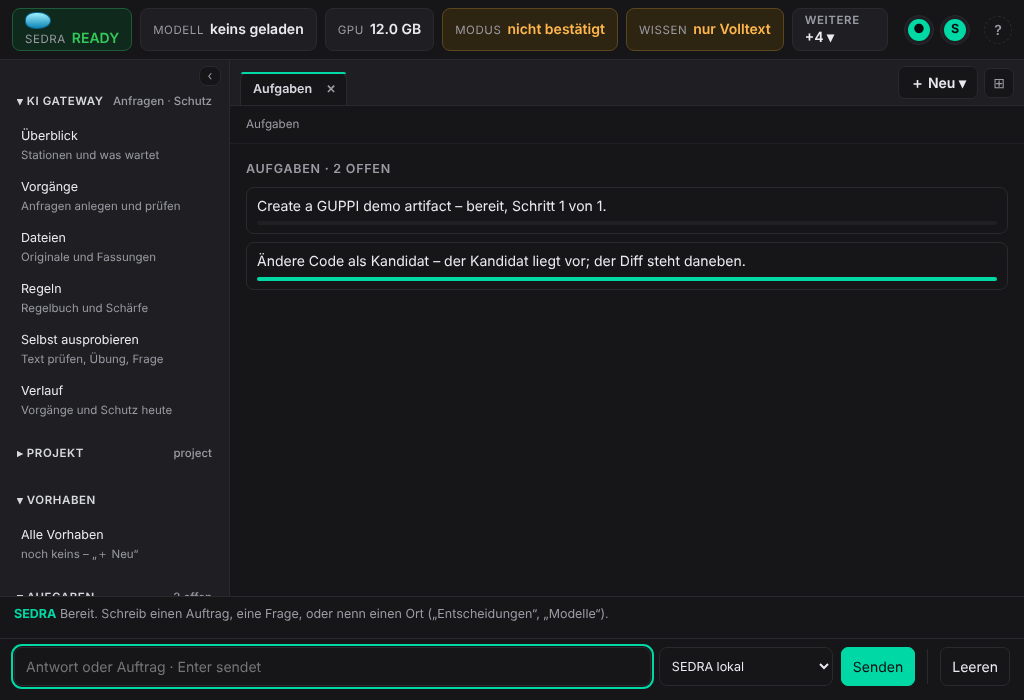
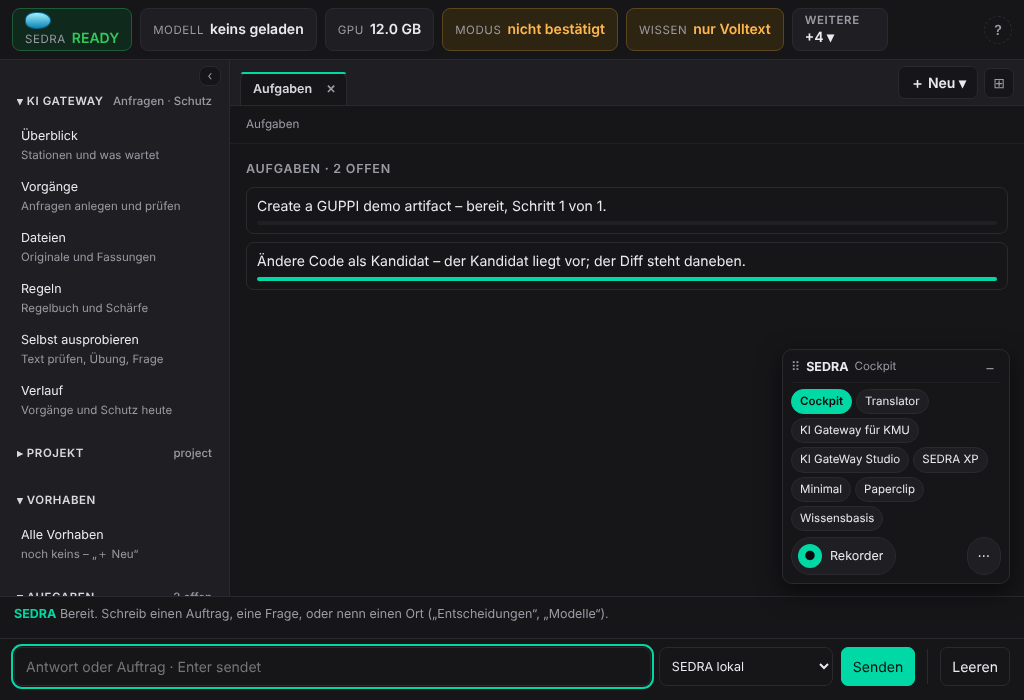
UIX: Mini-Hub – Rekorder und Umschalter als eigenes schwebendes Fenster
Captain 27.10.2026, 11:02 (ersetzt S6-E1): in jeder Shell ein ziehbares
Fenster mit allen Oberflächen als Knöpfe (ein Klick wechselt), Rekorder und
„⋯“ (Übersicht, Darstellung, Schrift, Gedächtnis). Zusammenklappbar zu „S“
mit Aufnahme-Punkt; Lage und Zustand im Browser gemerkt (sedra.hub). Panels
öffnen zur freien Seite und sind nie höher als der Platz. Die Plätze in den
Leisten (inLeiste) sind wieder entfernt. Tests, Spec, Changelog, Logbuch.

Claude-Session: https://claude.ai/code/session_01APvDSMTnUMNo2XdTsnSMnG

diff --git a/runtime/src/guppi_runtime/uix/ui/wechsel.js b/runtime/src/guppi_runtime/uix/ui/wechsel.js
@@ -1,4 +1,4 @@
-// UI contract 1.0 – der Umschalter (Ticket B6-G-04, Klaus 15.10.2026): in **jeder** Shell derselbe kleine Knopf unten rechts.
+// UI contract 1.0 – der Umschalter (Ticket B6-G-04, Klaus 15.10.2026), seit 27.10.2026 im Mini-Hub: ein schwebendes Fenster in **jeder** Shell.
 // Er öffnet ein Menü mit der Übersicht der Oberflächen, dem Wechsel in eine andere, der Darstellung (Klar/Nacht) und der
 // Schriftgröße (Normal/Groß). Er gehört zur Seite, nicht zur Shell: der Loader hängt ihn nach dem Start der Shell an, eine Shell
 // kann ihn nicht abschalten, und er spricht über sedraApi.api (die Seite selbst, Token-geprüft) – nur zwei Routen:
@@ -61,6 +61,7 @@
     chip.append(el('span', 'sx-chip-mark', 'S'), el('span', 'sx-chip-text', manifest.shell.name || manifest.shell.id));
 
     const panel = el('div', 'sx-panel sx-umschalter-panel'); panel.setAttribute('role', 'menu'); panel.hidden = true;
+    chip.panelRef = panel;
     const head = el('div', 'sx-head'); head.append(el('b', null, 'SEDRA'), el('small', null, 'Oberfläche: ' + (manifest.shell.name || manifest.shell.id)));
     const list = el('div', 'sx-list');
     const look = el('div', 'sx-look');
@@ -134,27 +135,87 @@
     document.addEventListener('click', e=>{ if(!panel.hidden && !panel.contains(e.target) && e.target !== chip && !chip.contains(e.target)) close(); });
 
     const rek = mountRekorder();
-    const host = el('div', 'sx-host'); host.append(rek.panel, rek.chip, panel, chip);
-    platzieren(host);
-    return {chip, panel, open, close, fill};
+    const hub = miniHub(el, manifest, chip, rek, api);
+    return {chip, panel, open, close, fill, hub};
   }
 
-  // Stufe 6 (SPEC_UIX_STUFE6 §2.3, S6-E1): Rekorder und Umschalter schweben nicht mehr über dem Inhalt. Eine Shell mit Leiste oder
-  // Kopfleiste nennt mit `inLeiste(el)` den Platz; die Panels öffnen dann darunter. Ohne Platz bleiben sie schwebend, aber klein.
-  let leistenPlatz = null, sxHost = null;
-  function platzieren(host){
-    sxHost = host || sxHost;
-    if(!sxHost) return;
-    if(leistenPlatz && leistenPlatz.isConnected){
-      sxHost.classList.add('sx-in-leiste'); sxHost.classList.remove('sx-klein');
-      if(sxHost.parentElement !== leistenPlatz) leistenPlatz.append(sxHost);
-    }else{
-      sxHost.classList.remove('sx-in-leiste'); sxHost.classList.add('sx-klein');
-      if(sxHost.parentElement !== document.body) document.body.append(sxHost);
-    }
-    try{ root.dispatchEvent(new Event('sedra:leiste')); }catch(_e){}      // die Leiste misst neu (ui/leiste.js)
+  // Mini-Hub (Captain 27.10.2026, 11:02 – ersetzt S6-E1): Rekorder und Umschalter sind ein eigenes, schwebendes Fenster in jeder
+  // Shell. Es zeigt die Oberflächen als Knöpfe (ein Klick wechselt), den Rekorder und „⋯“ für Übersicht, Darstellung und Gedächtnis.
+  // Der Captain zieht es an der Titelzeile, wohin er will, und klappt es zu einem runden „S“ zusammen; Lage und Zustand merkt sich
+  // der Browser (`sedra.hub`, nur Anzeige-Komfort). Die Panels öffnen zur freien Seite hin.
+  const HUB_KEY = 'sedra.hub';
+  // rein: die gemerkte Lage auf das Fenster begrenzt; kaputt oder fremd → null (dann unten rechts)
+  function hubLage(roh, breite, hoehe, w, h){
+    let v = null;
+    try{ v = JSON.parse(roh); }catch(_e){ return null; }
+    if(!v || typeof v !== 'object' || Array.isArray(v)) return null;
+    if(typeof v.x !== 'number' || typeof v.y !== 'number' || !isFinite(v.x) || !isFinite(v.y)) return {x: null, y: null, klein: v.klein === true};
+    return {x: Math.max(4, Math.min(v.x, breite - (w || 60) - 4)), y: Math.max(4, Math.min(v.y, hoehe - (h || 40) - 4)), klein: v.klein === true};
   }
-  function inLeiste(el){ leistenPlatz = el || null; platzieren(); }
+  function miniHub(el, manifest, chip, rek, api){
+    const host = el('div', 'sx-host sx-hub');
+    host.setAttribute('role', 'region'); host.setAttribute('aria-label', 'SEDRA Mini-Hub – Oberflächen und Rekorder');
+    const fenster = el('div', 'sx-hub-fenster');
+    const kopf = el('div', 'sx-hub-kopf'); kopf.title = 'Ziehen verschiebt das Fenster · Doppelklick: zurück nach unten rechts';
+    const zu = el('button', 'sx-hub-zu', '–'); zu.type = 'button'; zu.title = 'Zusammenklappen'; zu.setAttribute('aria-label', 'Mini-Hub zusammenklappen');
+    kopf.append(el('span', 'sx-hub-griff', '⠿'), el('b', null, 'SEDRA'), el('small', null, manifest.shell.name || manifest.shell.id), zu);
+    const shells = el('div', 'sx-hub-shells'); shells.setAttribute('role', 'group'); shells.setAttribute('aria-label', 'Oberfläche wechseln');
+    const leiste = el('div', 'sx-hub-leiste');
+    chip.querySelector('.sx-chip-text').textContent = '⋯';
+    chip.title = 'Übersicht, Darstellung, Schrift, Gedächtnis (Alt+S)';
+    leiste.append(rek.chip, chip);
+    fenster.append(kopf, shells, leiste);
+    const klein = el('button', 'sx-hub-klein'); klein.type = 'button'; klein.title = 'SEDRA Mini-Hub öffnen'; klein.setAttribute('aria-label', 'SEDRA Mini-Hub öffnen');
+    klein.append(el('span', 'sx-chip-mark', 'S'), el('span', 'sx-hub-rec'));
+    host.append(rek.panel, chip.panelRef || document.querySelector('.sx-umschalter-panel') || el('span'), fenster, klein);
+    document.body.append(host);
+
+    // die Oberflächen als Knöpfe: die aktuelle markiert, die Übersicht (start) steht im Menü „⋯“
+    api('/api/uix/modules').then(m=>{
+      (m.shells || []).filter(s=>s.id !== 'start').forEach(s=>{
+        const b = el('button', 'sx-hub-shell' + (s.id === manifest.shell.id ? ' on' : ''), s.name || s.id); b.type = 'button';
+        b.title = s.id === manifest.shell.id ? 'Du bist hier' : 'Wechseln zu ' + (s.name || s.id) + (s.description ? ' – ' + s.description : '');
+        if(s.id === manifest.shell.id) b.setAttribute('aria-current', 'true');
+        else b.addEventListener('click', ()=>wechseln({shell: s.id}).catch(err=>{ if(root.sedraBoot && root.sedraBoot.note) root.sedraBoot.note('Mini-Hub', err); }));
+        shells.append(b);
+      });
+    }).catch(()=>{ shells.append(el('small', 'sx-note', 'Oberflächen nicht lesbar')); });
+
+    // Lage, Zustand, Ziehen
+    let lage = null;
+    try{ lage = hubLage(localStorage.getItem(HUB_KEY), root.innerWidth, root.innerHeight, 220, 120); }catch(_e){}
+    const merken = ()=>{ try{ localStorage.setItem(HUB_KEY, JSON.stringify({x: lage ? lage.x : null, y: lage ? lage.y : null, klein: host.classList.contains('klein')})); }catch(_e){} };
+    function setzen(){
+      if(lage && lage.x !== null){ host.style.left = lage.x + 'px'; host.style.top = lage.y + 'px'; host.style.right = 'auto'; host.style.bottom = 'auto'; }
+      else{ host.style.left = host.style.top = ''; host.style.right = ''; host.style.bottom = ''; }
+      const r = (host.classList.contains('klein') ? klein : fenster).getBoundingClientRect();
+      const oben = r.top > root.innerHeight / 2;
+      host.classList.toggle('sx-oben-frei', oben);                              // Panels öffnen zur freien Seite hin
+      host.classList.toggle('sx-links-frei', r.left > root.innerWidth / 2);
+      // ein Panel ist nie höher als der Platz auf seiner Seite – sonst läge sein Anfang außerhalb des Fensters
+      host.style.setProperty('--sx-platz', Math.max(160, Math.round(oben ? r.top - 16 : root.innerHeight - r.bottom - 16)) + 'px');
+    }
+    function klappen(k){ host.classList.toggle('klein', !!k); merken(); setzen(); }
+    if(lage && lage.klein) host.classList.add('klein');
+    setzen();
+    zu.addEventListener('click', ()=>klappen(true));
+    klein.addEventListener('click', ()=>klappen(false));
+    kopf.addEventListener('dblclick', ()=>{ lage = null; merken(); setzen(); });
+    kopf.addEventListener('pointerdown', e=>{
+      if(e.target === zu) return;
+      e.preventDefault();
+      const r = host.getBoundingClientRect(), dx = e.clientX - r.left, dy = e.clientY - r.top;
+      const zieh = ev=>{ lage = {x: Math.max(4, Math.min(ev.clientX - dx, root.innerWidth - r.width - 4)), y: Math.max(4, Math.min(ev.clientY - dy, root.innerHeight - r.height - 4))}; setzen(); };
+      const los = ()=>{ document.removeEventListener('pointermove', zieh); document.removeEventListener('pointerup', los); merken(); };
+      document.addEventListener('pointermove', zieh); document.addEventListener('pointerup', los);
+    });
+    root.addEventListener('resize', ()=>{ if(lage && lage.x !== null){ const r = host.getBoundingClientRect(); lage = {x: Math.max(4, Math.min(lage.x, root.innerWidth - r.width - 4)), y: Math.max(4, Math.min(lage.y, root.innerHeight - r.height - 4))}; } setzen(); });
+    [rek.panel, chip.panelRef].forEach(pn=>{ if(pn && typeof MutationObserver !== 'undefined') new MutationObserver(()=>{ if(!pn.hidden) setzen(); }).observe(pn, {attributes: true, attributeFilter: ['hidden']}); });
+    // Aufnahme läuft: auch zusammengeklappt sichtbar (roter Punkt am „S“)
+    const rekMark = rek.chip.querySelector('.sx-chip-mark');
+    if(rekMark && typeof MutationObserver !== 'undefined') new MutationObserver(()=>host.classList.toggle('nimmt-auf', rekMark.classList.contains('rec'))).observe(rekMark, {attributes: true, attributeFilter: ['class']});
+    return {host, klappen, setzen};
+  }
 
   // Die Seite des Menüs: links (Standard) oder rechts. Die Wahl steht am Baum und im Umschalter; sie gilt pro Browser
   // (localStorage, nur eine Bequemlichkeit – ein Fehler dort ändert nichts am Ablauf).
@@ -274,6 +335,6 @@
   // „Wissens-Shell öffnen“ (SPEC_COCKPIT_BAUM_v1 §3.1): eine Shell wechselt in eine andere; Arbeitsstand und Ablage gehen mit
   function zurShell(id){ return wechseln({shell: String(id || '')}); }
 
-  root.sedraWechsel = {zurShell, inLeiste, mount, entries, setScale, restoreScale, scales: SCALES, menuWahl, menuSeite, setMenuSeite, MENU_SEITEN, beimWechsel, vorDemWechsel, neuLaden};
+  root.sedraWechsel = {zurShell, hubLage, mount, entries, setScale, restoreScale, scales: SCALES, menuWahl, menuSeite, setMenuSeite, MENU_SEITEN, beimWechsel, vorDemWechsel, neuLaden};
   if(typeof module !== 'undefined' && module.exports) module.exports = {entries, scales: SCALES};
 })();

diff --git a/runtime/src/guppi_runtime/uix/ui/wechsel.css b/runtime/src/guppi_runtime/uix/ui/wechsel.css
@@ -44,14 +44,30 @@
 .sx-rekorder-panel .sx-seg-btn.stopp{color:var(--bad)}
 .sx-rek-empfzeile{display:flex;align-items:center;gap:10px}
 .sx-rek-empf{flex:1;accent-color:var(--accent)}
-/* Stufe 6 (S6-E1): in der Leiste – nebeneinander, die Panels öffnen darunter; ohne Leiste schwebend, aber klein (nur das Zeichen) */
-.sx-host.sx-in-leiste{position:static;flex-direction:row;align-items:center;gap:6px;flex:0 0 auto;z-index:auto}
-.sx-host.sx-in-leiste .sx-chip{box-shadow:none;padding:3px 10px 3px 3px;background:var(--panel-2)}
-.sx-host.sx-in-leiste .sx-chip-mark{width:22px;height:22px}
-.sx-host.sx-in-leiste .sx-chip-text{max-width:110px}
-.sx-host.sx-in-leiste .sx-panel{position:fixed;top:calc(var(--strip-h) + 6px);right:14px;z-index:9100}
-.sx-host.sx-klein .sx-chip{padding:4px}
-.sx-host.sx-klein .sx-chip-text{display:none}
-.sx-host.sx-klein .sx-chip:hover .sx-chip-text,.sx-host.sx-klein .sx-chip:focus-visible .sx-chip-text{display:inline}
-@media (max-width:1200px){ .sx-host.sx-in-leiste .sx-chip-text{display:none} .sx-host.sx-in-leiste .sx-chip{padding:3px} }
-.sx-host .sx-chip.laeuft .sx-chip-text{display:inline !important}
+/* Mini-Hub (Captain 27.10.2026, 11:02): ein eigenes, schwebendes Fenster – Oberflächen wechseln, Rekorder, „⋯“; ziehbar, zusammenklappbar */
+.sx-hub-fenster{display:flex;flex-direction:column;gap:6px;width:228px;padding:6px 8px 8px;background:var(--panel);border:1px solid var(--line);
+  border-radius:var(--radius-2);box-shadow:var(--shadow)}
+.sx-hub-kopf{display:flex;align-items:center;gap:6px;cursor:grab;user-select:none;touch-action:none;padding:0 0 4px;border-bottom:1px solid var(--line-soft)}
+.sx-hub-kopf:active{cursor:grabbing}
+.sx-hub-kopf b{font-size:var(--size-small)}
+.sx-hub-kopf small{flex:1;min-width:0;color:var(--muted);font-size:var(--size-xs);white-space:nowrap;overflow:hidden;text-overflow:ellipsis}
+.sx-hub-griff{color:var(--muted);font-size:var(--size-small);line-height:1}
+.sx-hub-zu{width:22px;height:22px;padding:0;border:1px solid transparent;border-radius:var(--radius);background:transparent;color:var(--muted);cursor:pointer}
+.sx-hub-zu:hover,.sx-hub-zu:focus-visible{border-color:var(--line);color:var(--text)}
+.sx-hub-shells{display:flex;flex-wrap:wrap;gap:4px}
+.sx-hub-shell{padding:3px 8px;border:1px solid var(--line);border-radius:999px;background:var(--panel-2);color:var(--text);cursor:pointer;font-size:var(--size-xs)}
+.sx-hub-shell:hover,.sx-hub-shell:focus-visible{border-color:var(--accent)}
+.sx-hub-shell.on{background:var(--accent);border-color:var(--accent);color:var(--accent-text);cursor:default;font-weight:600}
+.sx-hub-leiste{display:flex;gap:6px;justify-content:space-between}
+.sx-hub-leiste .sx-chip{box-shadow:none;background:var(--panel-2)}
+.sx-hub-leiste .sx-umschalter{padding:6px 10px}
+.sx-hub-leiste .sx-umschalter .sx-chip-mark{display:none}
+.sx-hub-klein{display:none;position:relative;padding:4px;border:1px solid var(--line);border-radius:50%;background:var(--panel);box-shadow:var(--shadow);cursor:pointer}
+.sx-hub-rec{display:none;position:absolute;right:0;top:0;width:10px;height:10px;border-radius:50%;background:var(--bad);border:2px solid var(--panel)}
+.sx-hub.klein .sx-hub-fenster{display:none}
+.sx-hub.klein .sx-hub-klein{display:block}
+.sx-hub.nimmt-auf .sx-hub-rec{display:block}
+/* Panels öffnen zur freien Seite: unten, wenn oben kein Platz ist; rechts bündig oder links */
+.sx-hub:not(.sx-oben-frei){flex-direction:column-reverse}
+.sx-hub:not(.sx-links-frei){align-items:flex-start}
+.sx-hub .sx-panel{max-height:var(--sx-platz, calc(100vh - 110px))}

diff --git a/runtime/src/guppi_runtime/uix/shells/cockpit/strip.js b/runtime/src/guppi_runtime/uix/shells/cockpit/strip.js
@@ -26,10 +26,7 @@
       const hilfe = d().el('button', 'ck-hilfe', '?'); hilfe.type = 'button';
       hilfe.title = 'Tastenkürzel (?)'; hilfe.setAttribute('aria-label', 'Tastenkürzel anzeigen');
       hilfe.onclick = ()=>{ if(shell.rahmen) shell.rahmen.kuerzel(); };
-      // Stufe 6 (S6-E1): Rekorder und Umschalter stehen rechts in der Leiste, nicht schwebend über dem Werkstück
-      const platz = d().el('div', 'ck-sx-platz');
-      host.append(platz, hilfe);
-      if(root.sedraWechsel && root.sedraWechsel.inLeiste) root.sedraWechsel.inLeiste(platz);
+      host.append(hilfe);
       // Stufe 6 (§2.1): passt nicht alles hinein, wandern ruhige Zellen in „+n ▾“ – nichts wird mehr abgeschnitten
       leiste = root.sedraLeiste ? root.sedraLeiste.makeLeiste(host, ()=>cells.map(c=>({el: c.cell, id: c.manifest.id, order: c.manifest.order})), 'ck-gauge') : null;
     }

diff --git a/runtime/src/guppi_runtime/uix/ui/frame.js b/runtime/src/guppi_runtime/uix/ui/frame.js
@@ -154,8 +154,6 @@
         if(L.gespraech.art === 'schublade') right.append(d().button('Gespräch', ()=>this.toggleDrawer(), 'fr-drawer-btn'));
         right.append(d().el('small', 'fr-hint', L.suche === 'strg-k' ? 'Strg+K · Enter sendet · Esc schließt' : 'Enter im Gespräch sendet'));
         zone.append(right);
-        this.el.leisteRechts = right;                  // Stufe 6 (§2.3): hier stehen Rekorder und Umschalter
-        if(!L.rand('leiste') && root.sedraWechsel && root.sedraWechsel.inLeiste) root.sedraWechsel.inLeiste(right);
         // Stufe 6 (§2.1): ruhige Zellen wandern in „+n ▾“, statt abgeschnitten zu werden
         this.leiste = root.sedraLeiste ? root.sedraLeiste.makeLeiste(zone, ()=>this.gauges.map(g=>({el: g.cell, id: g.manifest.id, order: g.manifest.order})), 'fr-gauge') : null;
       },

diff --git a/runtime/src/guppi_runtime/uix/shells/minimal/menubar.js b/runtime/src/guppi_runtime/uix/shells/minimal/menubar.js
@@ -179,9 +179,7 @@
         const state = root.sedraLifecycle.mountTool(mod, cell, shell.ctx.makeContext(manifest, null, shell.shellApi), shell.onProblem);
         cells.push({manifest, mod, state, cell});
       });
-      // Stufe 6: Rekorder und Umschalter rechts in der Menüleiste; ruhige Instrumente wandern in „+n ▾“ (ui/leiste.js)
-      const platz = d().el('div', 'sh-min-sx-platz'); host.append(platz);
-      if(root.sedraWechsel && root.sedraWechsel.inLeiste) root.sedraWechsel.inLeiste(platz);
+      // Stufe 6: ruhige Instrumente wandern in „Weitere +n“ (ui/leiste.js)
       leiste = root.sedraLeiste ? root.sedraLeiste.makeLeiste(host, ()=>cells.map(c=>({el: c.cell, id: c.manifest.id, order: c.manifest.order})), 'sh-min-gauge') : null;
     }
 

diff --git a/runtime/src/guppi_runtime/uix/shells/minimal/shell.css b/runtime/src/guppi_runtime/uix/shells/minimal/shell.css
@@ -165,8 +165,4 @@
 .sh-min-edit-icon:hover, .sh-min-edit-icon:focus{ border-color: var(--accent); outline: none; }
 .sh-min-edit-icon.on{ background: var(--accent); color: var(--accent-text); border-color: var(--accent); }
 .sh-min-edit-said{ color: var(--warn); min-height: 1em; }
-/* Stufe 6 (S6-E1): Rekorder und Umschalter in der Menüleiste; die Instrumente ordnen sich (ui/leiste.js) */
-.sh-min-sx-platz{flex:0 0 auto;display:flex;align-items:center;margin-left:6px}
-.sh-min-sx-platz .sx-chip{padding:1px 8px 1px 1px}
-.sh-min-sx-platz .sx-chip-mark{width:18px;height:18px;font-size:11px}
 .sh-min-bar-top .lst-mehr{flex-direction:row;align-items:center;gap:6px;min-width:0;padding:0 8px;height:100%;border-radius:0;border-width:0 0 0 1px;background:transparent}

diff --git a/runtime/src/guppi_runtime/uix/shells/paperclip/topbar.js b/runtime/src/guppi_runtime/uix/shells/paperclip/topbar.js
@@ -30,10 +30,7 @@
         else if(e.key === 'Escape'){ close(); input.blur(); }
       };
       input.onfocus = ()=>draw();
-      // Stufe 6 (S6-E1): Rekorder und Umschalter rechts in der Kopfleiste, nicht schwebend über der Seite
-      const platz = d().el('div', 'pc-sx-platz');
-      host.append(back, title, verbs, spacer, search, platz);        // der Weg zum Gespräch ist der Knopf rechts unten – einer reicht
-      if(root.sedraWechsel && root.sedraWechsel.inLeiste) root.sedraWechsel.inLeiste(platz);
+      host.append(back, title, verbs, spacer, search);        // der Weg zum Gespräch ist der Knopf rechts unten – einer reicht
       document.addEventListener('mousedown', e=>{ if(!search.contains(e.target)) close(); });
     }
 

diff --git a/runtime/src/guppi_runtime/uix/shells/cockpit/shell.css b/runtime/src/guppi_runtime/uix/shells/cockpit/shell.css
@@ -316,5 +316,3 @@
 /* Stufe 6 (§2.1): unter 1200 px fällt die dritte Zeile einer Zelle weg (sie steht im title); die Leiste rollt nicht mehr */
 @media (max-width:1200px){ .ck-strip .ck-gauge i{display:none} }
 .ck-strip .ck-gauge{flex:0 0 auto}
-.ck-sx-platz{flex:0 0 auto;display:flex;align-items:center;margin-left:auto}
-.ck-sx-platz + .ck-hilfe{margin-left:6px}

diff --git a/runtime/src/guppi_runtime/uix/shells/paperclip/shell.css b/runtime/src/guppi_runtime/uix/shells/paperclip/shell.css
@@ -126,5 +126,3 @@
   .pc:has(.pc-stack:not([hidden])){ grid-template-columns: 210px minmax(0, 1fr); }
   .pc-stack{ position: fixed; right: 0; top: 48px; bottom: 0; width: 380px; z-index: 120; box-shadow: var(--shadow); }
 }
-/* Stufe 6 (S6-E1): Rekorder und Umschalter in der Kopfleiste */
-.pc-sx-platz{flex:0 0 auto;display:flex;align-items:center;margin-left:10px}

diff --git a/runtime/tests/test_uix_stufe6.py b/runtime/tests/test_uix_stufe6.py
@@ -1,4 +1,4 @@
-"""SPEC_UIX_STUFE6_RAHMEN_v1 (R1 bis R8): Leiste ordnet sich, Prüfwerkzeuge nur mit Schalter, nichts schwebt über dem Inhalt,
+"""SPEC_UIX_STUFE6_RAHMEN_v1 (R1 bis R8): Leiste ordnet sich, Prüfwerkzeuge nur mit Schalter, Mini-Hub als schwebendes Fenster,
 „Leeren“ mit Rückfrage, eine Zahl „offen“, Nachweis-Spalte schmal als Reiter und leer eingeklappt, KMU-Kopf kompakt."""
 import subprocess
 import sys
@@ -30,6 +30,14 @@ class Rein(unittest.TestCase):
         self.assertEqual(out[1]['mehr'], ['gpu', 'tasks', 'slots'], 'die höchsten order zuerst hinaus, bis es passt')
         self.assertIn('decisions', out[2]['sichtbar'], 'warn bleibt immer sichtbar')
         self.assertEqual(out[3], {'sichtbar': [], 'mehr': []})
+
+    def test_mini_hub_lage_rein(self):
+        out = run_js([UIX / 'ui' / 'wechsel.js'], """
+          const L = box.sedraWechsel.hubLage;
+          console.log(JSON.stringify([L('{"x":5000,"y":-3,"klein":true}', 1400, 860, 220, 120), L('kaputt', 1400, 860), L('{"klein":true}', 1400, 860), L('[1,2]', 1400, 860)]));
+        """)
+        self.assertEqual(out[0], {'x': 1176, 'y': 4, 'klein': True}, 'ins Fenster begrenzt')
+        self.assertIsNone(out[1]); self.assertEqual(out[2], {'x': None, 'y': None, 'klein': True}); self.assertIsNone(out[3])
 
     def test_r4_r5_gespraech(self):
         talk = UIX / 'tools' / 'talk'
@@ -109,26 +117,43 @@ class ImBrowser(unittest.TestCase):
         page.goto(url); self.uix.wait_until_started(page); page.wait_for_timeout(2200)
         return page, fehler
 
-    UEBERLAPP = """(sel)=>{
-      const flaechen = [...document.querySelectorAll(sel)].filter(e=>e.offsetParent !== null).map(e=>e.getBoundingClientRect());
-      const schwebend = [...document.querySelectorAll('.sx-host .sx-chip')].filter(e=>e.offsetParent !== null && !e.closest('.sx-in-leiste')).map(e=>e.getBoundingClientRect());
-      const schnitt = (a, b)=>Math.max(0, Math.min(a.right, b.right) - Math.max(a.left, b.left)) * Math.max(0, Math.min(a.bottom, b.bottom) - Math.max(a.top, b.top));
-      return {schwebend: schwebend.length, im_weg: schwebend.reduce((s, c)=>s + flaechen.reduce((t, f)=>t + schnitt(c, f), 0), 0)};
-    }"""
-
-    def test_r1_r3_leiste_und_knoepfe(self):
-        for shell, flaeche in (('cockpit', '.dk-body, .ck-talk input'), ('wissensbasis', '.fr-body, .t-talk-in input'), ('paperclip', '.pc-page'), ('minimal', '.sh-min-win')):
+    def test_r1_leiste_und_mini_hub_in_jeder_shell(self):
+        """R1 und der Mini-Hub (Captain 27.10.2026, 11:02 – ersetzt S6-E1): Rekorder und Umschalter schweben als eigenes Fenster."""
+        for shell in ('cockpit', 'wissensbasis', 'paperclip', 'minimal', 'gateway-kmu'):
             for breite in (1400, 1024):
                 with self.subTest(shell=shell, breite=breite):
                     page, fehler = self.seite(shell, breite)
-                    lage = page.evaluate(self.UEBERLAPP, flaeche)
-                    self.assertEqual(lage['schwebend'], 0, 'Rekorder und Umschalter stehen in der Leiste')
+                    page.wait_for_selector('.sx-hub .sx-hub-shell', timeout=5000)
+                    hub = page.evaluate("""()=>{const h=document.querySelector('.sx-hub'), r=h.getBoundingClientRect();
+                        return {fix: getComputedStyle(h).position, shells: h.querySelectorAll('.sx-hub-shell').length, an: (h.querySelector('.sx-hub-shell.on')||{}).textContent,
+                                rek: !!h.querySelector('.sx-hub-leiste .sx-chip:not(.sx-umschalter)'), drin: r.left >= 0 && r.top >= 0 && r.right <= innerWidth && r.bottom <= innerHeight}}""")
+                    self.assertEqual(hub['fix'], 'fixed'); self.assertGreaterEqual(hub['shells'], 2); self.assertTrue(hub['an']); self.assertTrue(hub['rek']); self.assertTrue(hub['drin'])
                     self.assertEqual(page.evaluate("()=>document.documentElement.scrollWidth - innerWidth"), 0)
                     if shell == 'cockpit':
                         leiste = page.evaluate("()=>{const h=document.querySelector('.ck-strip'); return [h.scrollWidth - h.clientWidth, [...h.querySelectorAll('.ck-gauge b')].filter(b=>b.offsetParent && b.scrollWidth > b.clientWidth + 1).length]}")
                         self.assertEqual(leiste, [0, 0], 'kein Wert abgeschnitten, kein Überhang')
                         self.assertEqual(page.locator('[data-tool="rahmen-probe"]').count(), 0, 'R2: ohne Schalter kein Prüfwerkzeug')
                     self.assertEqual(fehler, [])
+
+    def test_mini_hub_ziehen_klappen_merken_wechseln(self):
+        page, fehler = self.seite('cockpit', 1400, 860)
+        page.wait_for_selector('.sx-hub .sx-hub-shell', timeout=5000)
+        kopf = page.locator('.sx-hub-kopf').bounding_box()
+        page.mouse.move(kopf['x'] + 60, kopf['y'] + 8); page.mouse.down(); page.mouse.move(300, 120, steps=5); page.mouse.up()
+        oben = page.evaluate("()=>Math.round(document.querySelector('.sx-hub').getBoundingClientRect().top)")
+        self.assertLess(oben, 200, 'gezogen')
+        page.locator('.sx-hub-zu').click()
+        self.assertTrue(page.locator('.sx-hub-klein').is_visible()); self.assertFalse(page.locator('.sx-hub-fenster').is_visible())
+        page.reload(); self.uix.wait_until_started(page); page.wait_for_timeout(1500)
+        self.assertTrue(page.locator('.sx-hub-klein').is_visible(), 'zusammengeklappt bleibt es nach dem Neuladen')
+        self.assertLess(page.evaluate("()=>Math.round(document.querySelector('.sx-hub').getBoundingClientRect().top)"), 200, 'die Lage bleibt')
+        page.locator('.sx-hub-klein').click()
+        page.locator('.sx-hub-kopf').dblclick()
+        self.assertGreater(page.evaluate("()=>document.querySelector('.sx-hub').getBoundingClientRect().top"), 400, 'Doppelklick: zurück nach unten rechts')
+        page.locator('.sx-hub-shell', has_text='Paperclip').click(); page.wait_for_timeout(2500)
+        self.uix.wait_until_started(page)
+        self.assertEqual(page.evaluate("()=>window.sedraBoot.ctx.manifest.shell.id"), 'paperclip', 'ein Klick wechselt die Oberfläche')
+        self.assertEqual(fehler, [])
 
     def test_r1_mehr_zeigt_die_uebrigen(self):
         page, fehler = self.seite('cockpit', 1024)

diff --git a/runtime/tests/test_uix_flows.py b/runtime/tests/test_uix_flows.py
@@ -246,7 +246,7 @@ class Flows(unittest.TestCase):
     def test_the_switcher_also_sits_in_a_shell_from_vorgabe(self):
         def flow(page, wait):
             self.assertTrue(page.query_selector('.sx-umschalter'))
-            self.assertIn('GateWay Studio', page.evaluate("()=>document.querySelector('.sx-umschalter .sx-chip-text').textContent"))
+            self.assertIn('GateWay Studio', page.evaluate("()=>document.querySelector('.sx-hub-kopf small').textContent"))   # Mini-Hub (27.10.)
             page.click('.sx-umschalter'); page.wait_for_timeout(600)
             self.assertTrue(any('Cockpit' in l for l in page.evaluate("()=>[...document.querySelectorAll('.sx-item b')].map(b=>b.textContent)")))
         self.run_in('gateway-studio', flow)

diff --git a/docs/LOGBUCH_AGENT_MANAGER.md b/docs/LOGBUCH_AGENT_MANAGER.md
@@ -533,3 +533,4 @@ acht_frei.txt bewusst NICHT angelegt (ohne sie startet nie ein Lauf). Festlegung
 | 2026-10-27 08:30 | MESSUNG | Nachtlauf 3D (00:53 bis 03:43) ausgewertet und Kurzlauf (08:21): Nachtlauf GESCHEITERT: 0 von 8 Objekten; Recherche: nur 2 von 10 Quellen mit Ergebnis (CSG, Extrusion; die Berichte liegen in `nachtlauf_3d_2026-10-27_0053/berichte/`), danach 8 mal Wartezeit von 15 min ohne Ergebnis; freier RAM fiel von 4,9 GB (Start) über 2,2 (01:14) und 0,6 GB (01:34) auf 0,2 bis 0,5 GB und blieb dort bis 03:43, auch NACH dem Entladen des Modells (VRAM 304 MiB); der RAM-Schutz entlud 29 mal, der Lader lehnte das Hilfsmodell dauernd mit recipe_not_usable:hardware_pressure ab, alle Objekte endeten mit kein_modell, Lauf endete 03:43 statt nach 6 h; jetzt (08:00) 14,3 von 31,1 GB frei. Wer den RAM in der Nacht belegte, ist NICHT geklärt (kein Prozess gemessen; verdächtig Cockpit-Prozess oder Programme des Captains wie WSL 2,2 GB, Docker, Steam, ChatGPT; die Vorprüfung verlangte nur 6 GB). Umbau von `benchmarks/nachtlauf_3d.py`: Prozess-Messung (die sechs größten Prozesse und die Cockpit-PID alle 30 s in messung.jsonl), Vorprüfung mindestens 10 GB frei, Abbruch nach zweimaligem Entladen durch den RAM-Schutz, Option `--kurz` (3 Quellen, 2 Objekte, höchstens 0,6 h), zweiter Versuch bei abgelehnter Recherche. KURZLAUF (3 Quellen, 2 Objekte, `nachtlauf_3d_2026-10-27_0821`): BESTANDEN in 2 min: 2 von 3 Recherchen (Rotationskörper abgelehnt: research_invalid:urls), beide Objekte im ersten Versuch (Würfel mit Kugelloch 2312 Dreiecke, Becher 376 Dreiecke), RAM-Minimum 4,95 GB beim Laden, danach 10,6 GB frei; llama-server privat 9,65 bis 12,45 GB, ein Fremdprogramm VirtuelleFirma (PID 10852) 2,8 GB und vmmemWSL 2,2 GB; kein Schutz ausgelöst. Der Fehler der Nacht ließ sich in 2 Minuten NICHT nachstellen; dafür braucht es einen längeren Lauf mit der neuen Messung. | OP-S2-18 |
 | 2026-10-27 01:30 | AENDERUNG | COCKPIT_MODUL_v1 §1 (Captain-Entscheidung T3, 26.10.2026 19:43): das Gespräch ist aufziehbar (nachgeholt, 2 Zeilen bis 50 % des Fensters, Doppelklick zurück); der Baum lässt sich mit Strg+B oder dem Knopf am Rand ausblenden – die Zonen bleiben dieselben, eine Zone ist nur vorübergehend ausgeblendet. Dazu T1 (Zeile „Gespräch unten“ entfällt), T2 (Untergruppe Sprache in der Werkstatt), T4 (beim ersten Start offen: GateWay, Vorhaben, Aufgaben), T5 (Wissen in der Bibliothek). | runtime/src/guppi_runtime/uix/shells/cockpit/ (SPEC_COCKPIT_BAUM_v1) |
 | 2026-10-27 10:15 | AENDERUNG | UIX Stufe 6 (SPEC_UIX_STUFE6_RAHMEN_v1, Captain S6-E1 bis S6-E5): neuer Schalter `entwicklung` in local_config/switches.yaml (Standard aus) – nur damit laden Prüfwerkzeuge der Oberfläche (`zweck: pruefung`, heute rahmen-probe). Freigabe-Anträge zählen nicht mehr als Aufgaben (nur Posteingang). Rekorder und Umschalter in der Leiste; Leiste ordnet sich („Weitere +n“). | runtime/src/guppi_runtime/uix (SPEC_UIX_STUFE6_RAHMEN_v1) |
+| 2026-10-27 11:30 | AENDERUNG | Captain 11:02: „Rekorder und Umschalter bitte wieder als eigenes Fenster schwebend in den Shells – dies dient als Mini-Hub, auch zum Wechseln der Shells“. Umgesetzt in ui/wechsel.js: schwebendes Fenster mit allen Oberflächen als Knöpfe, Rekorder und „⋯“; ziehbar, zusammenklappbar, Lage im Browser gemerkt. Ersetzt S6-E1 (Knöpfe in der Leiste). | runtime/src/guppi_runtime/uix/ui/wechsel.js |
